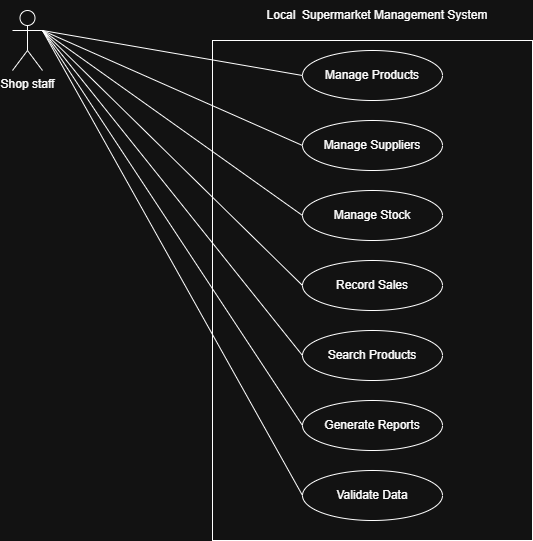
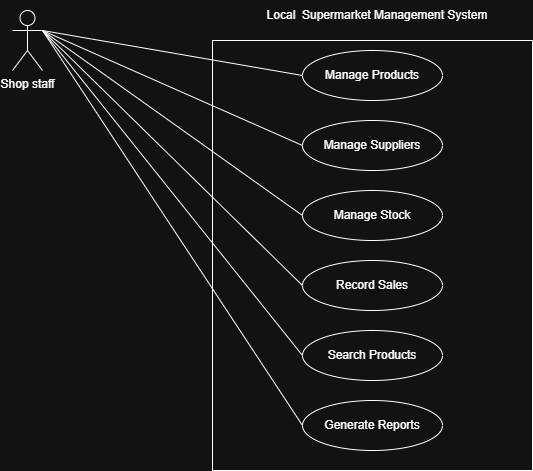
Added algorithm and data structure analysis to requirements

diff --git a/Documentation/RequirementsAnalysis.md b/Documentation/RequirementsAnalysis.md
@@ -62,9 +62,7 @@ The system should:
 For example, if stock falls below a minimum level, it should be flagged for restocking.
 
 ### Sales Management
-
 The system should handle sales transactions in the supermarket.
-
 The system should:
 
 - Record sales transactions
@@ -72,9 +70,7 @@ The system should:
 - Automatically reduce stock after a sale is completed
 
 ### Reports
-
 The system should give useful reports for decision making.
-
 The system should provide:
 
 - Low stock report
@@ -83,7 +79,6 @@ The system should provide:
 - Supplier stock report
 
 ## Non-Functional Requirements
-
 ### Performance
 The system should allow fast searching and efficient data processing.
 
@@ -100,9 +95,19 @@ The system should be simple and easy for supermarket staff to use.
 The system should ensure data integrity and prevent invalid inputs.
 
 ## Technologiess
-
 - C#
 - WinForms
 - SQL Server
 - Entity Framework Core
 - Custom Data Structures (BST / AVL Tree for searching)
+
+### Algorithms and Data Structures
+
+The system will use a custom Binary Search Tree (BST)
+to support efficient product searching by barcode.
+
+A linear search algorithm will also be implemented
+for product name searches.
+
+These algorithms will be analysed using Big-O
+time complexity notation.